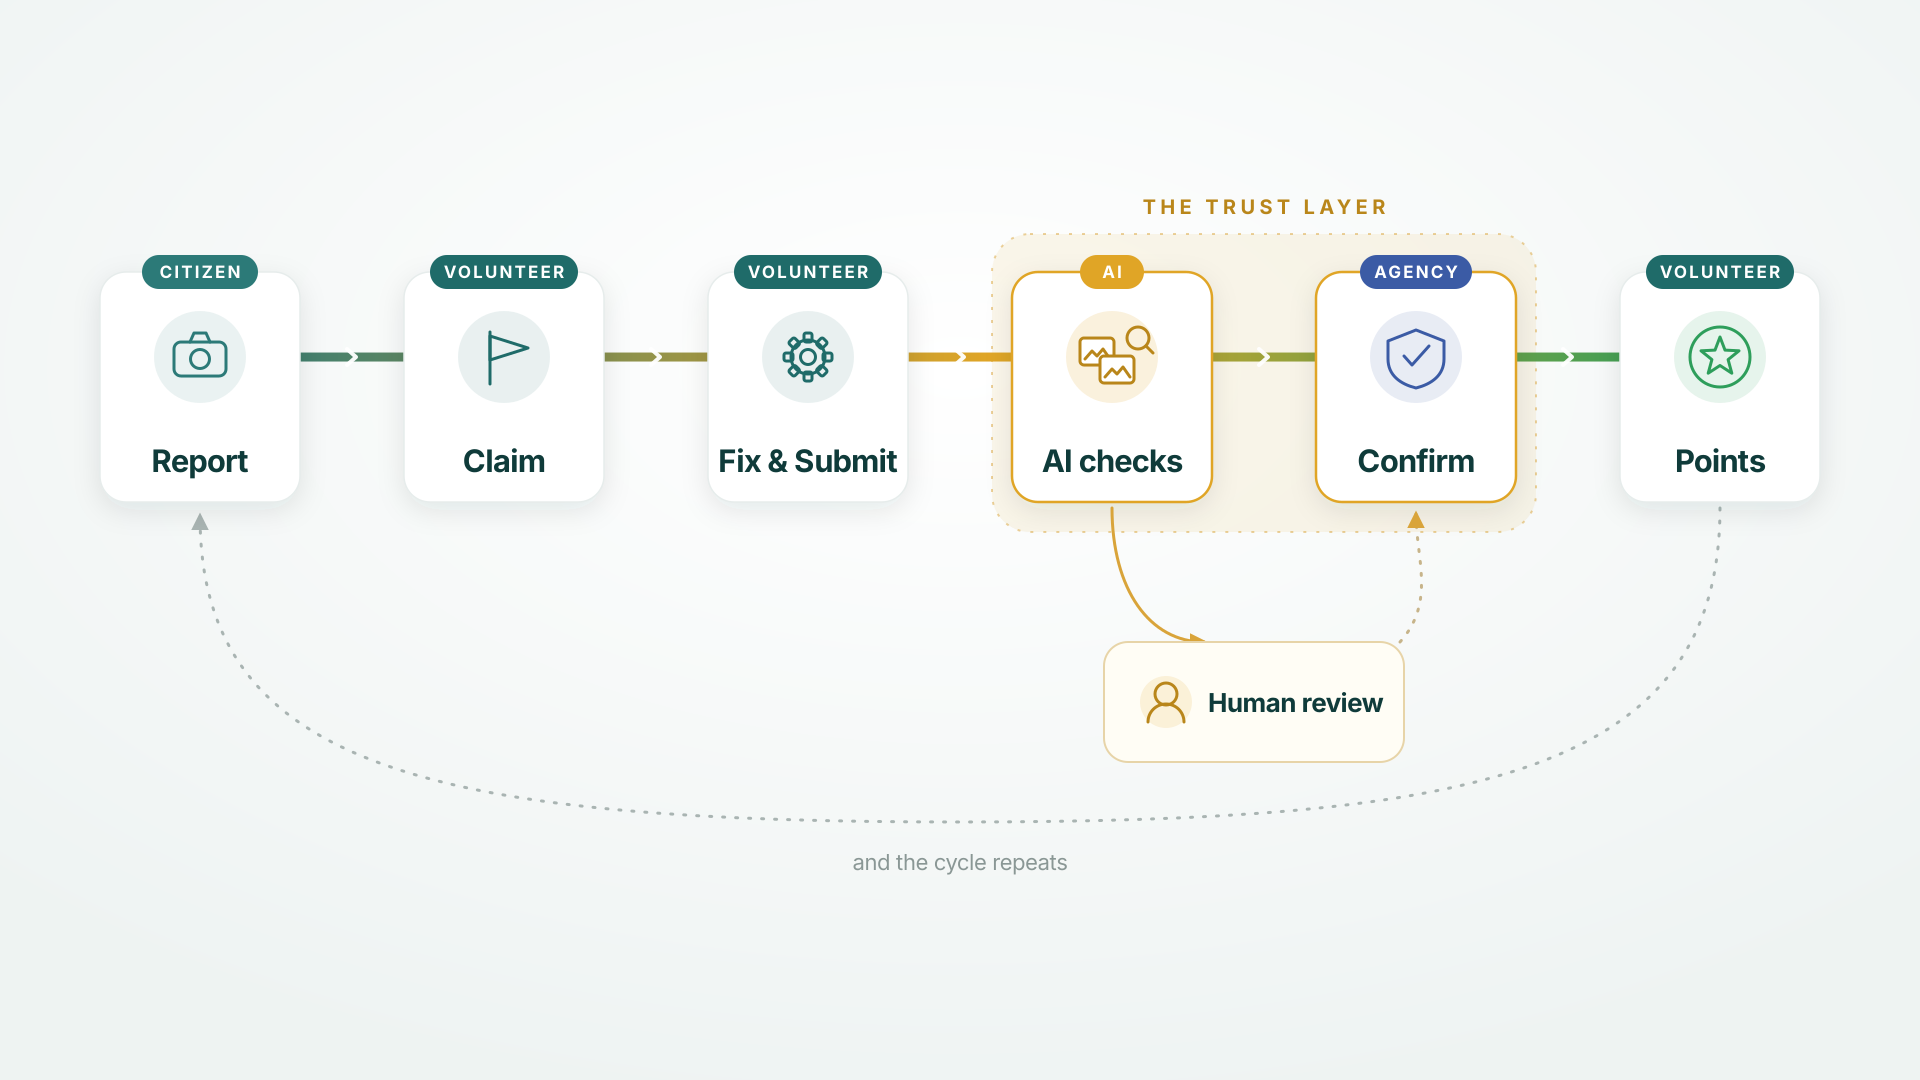
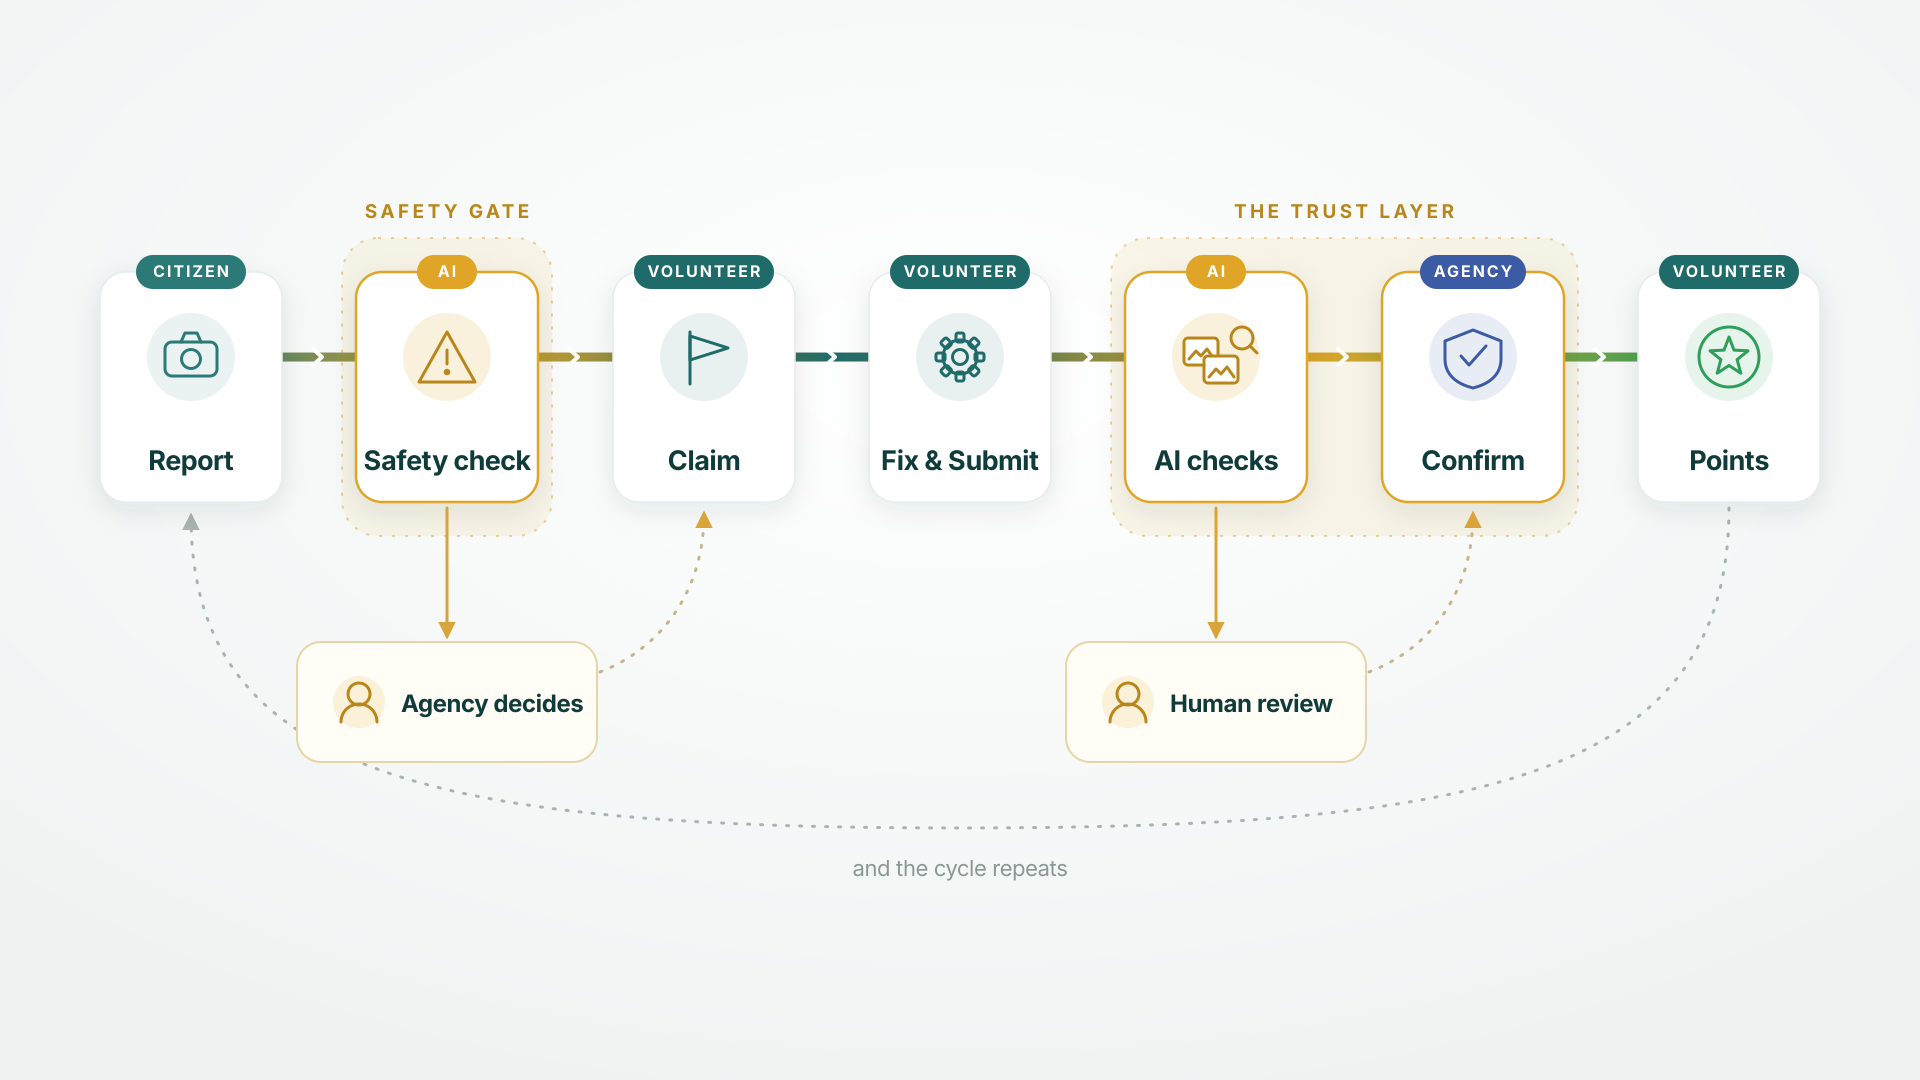
Show the safety gate in the loop diagram
The diagram had Report going straight to Claim, which is no longer how
the platform works: an issue is unclaimable until it has been classified.
Adds the safety check as its own step, with its own lane for the cases a
person has to decide, so the shape of the story is now AI at both ends
and a human deciding at both.

Also records sharp as the re-render command — headless Chrome hangs often
enough here that it should not be the first thing a reader reaches for.

diff --git a/docs/diagrams/README.md b/docs/diagrams/README.md
@@ -1,6 +1,8 @@
 # Diagrams
 
-`how-it-works.svg` — the CiviCon loop on one 16:9 slide (1920×1080).
+`how-it-works.svg` — the CiviCon loop on one 16:9 slide (1920×1080): report,
+safety check, claim, fix, AI check, confirm, points, with the two lanes where a
+person decides instead.
 `how-it-works.png` — the same, rendered, for decks that won't take SVG.
 
 Keynote and PowerPoint import the SVG and keep it sharp at any size; Google
@@ -8,6 +10,14 @@ Slides does not, so use the PNG there. Edit the SVG in any text editor or in
 Figma — the labels are real text, not outlines.
 
 Re-render the PNG after editing:
+
+```bash
+npx sharp-cli -i docs/diagrams/how-it-works.svg \
+  -o docs/diagrams/how-it-works.png --format png resize 1920 1080
+```
+
+Headless Chrome also works and was the original route, but it hangs often
+enough on this machine that sharp is the one to reach for first:
 
 ```bash
 "/Applications/Google Chrome.app/Contents/MacOS/Google Chrome" \
